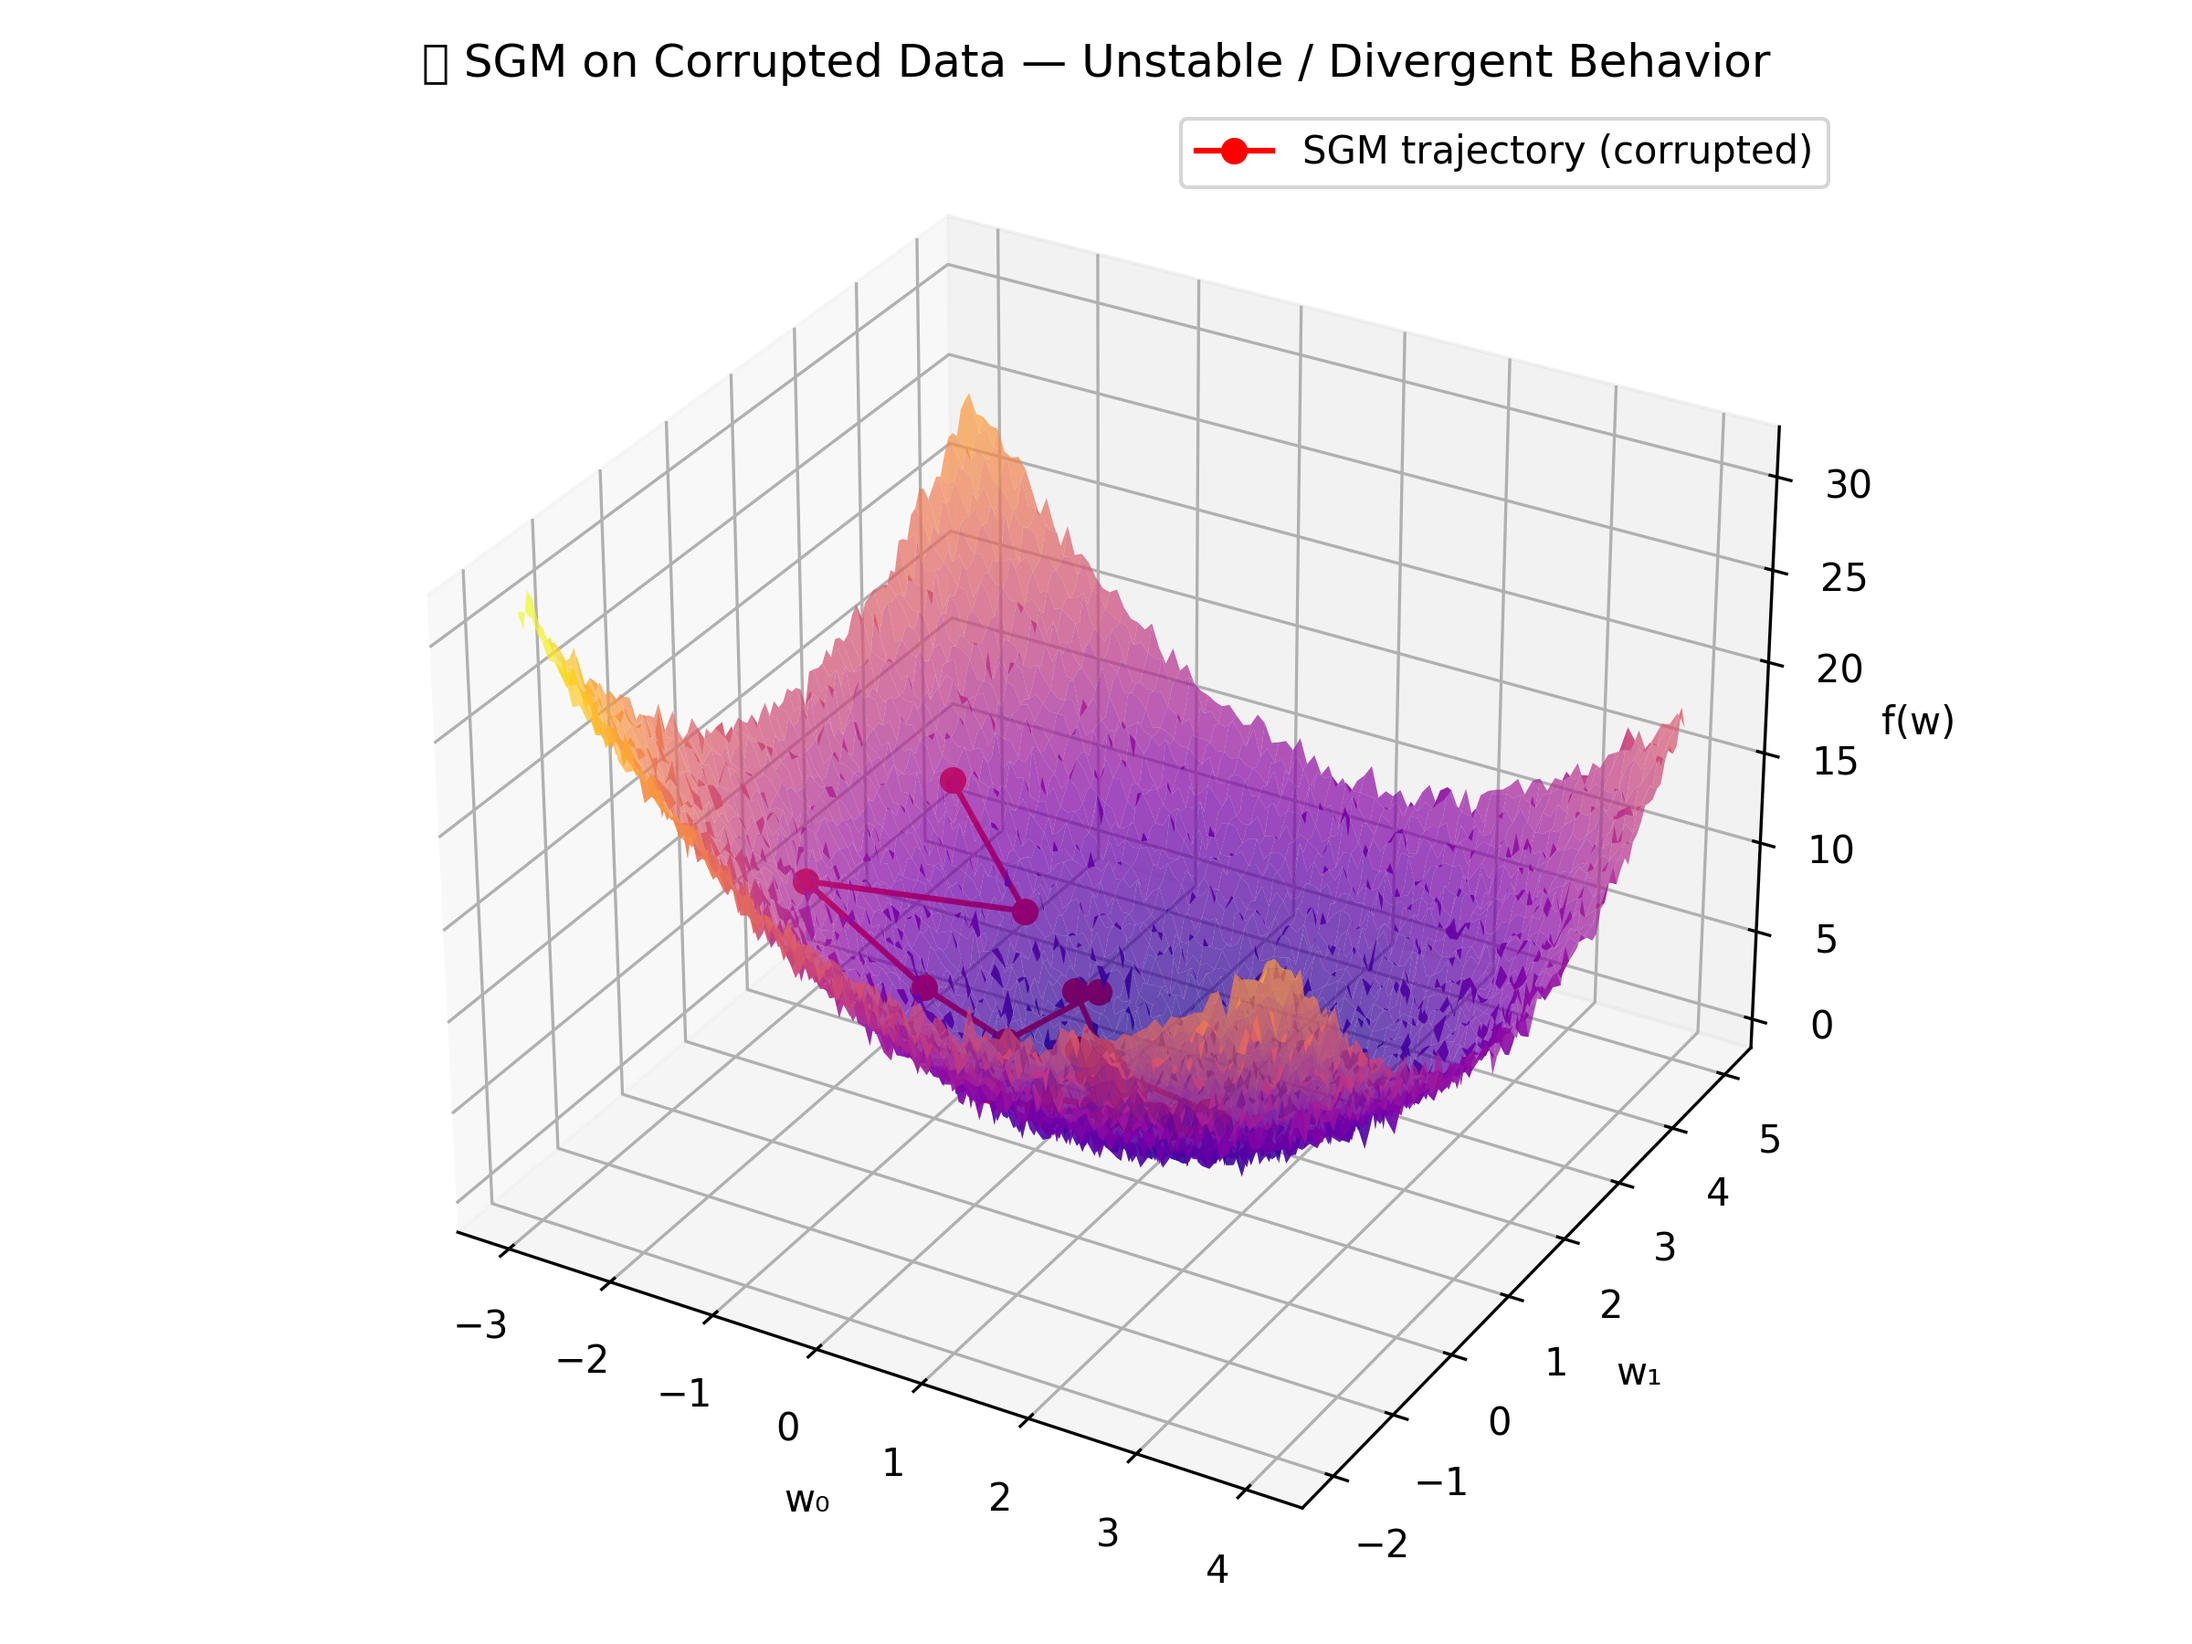
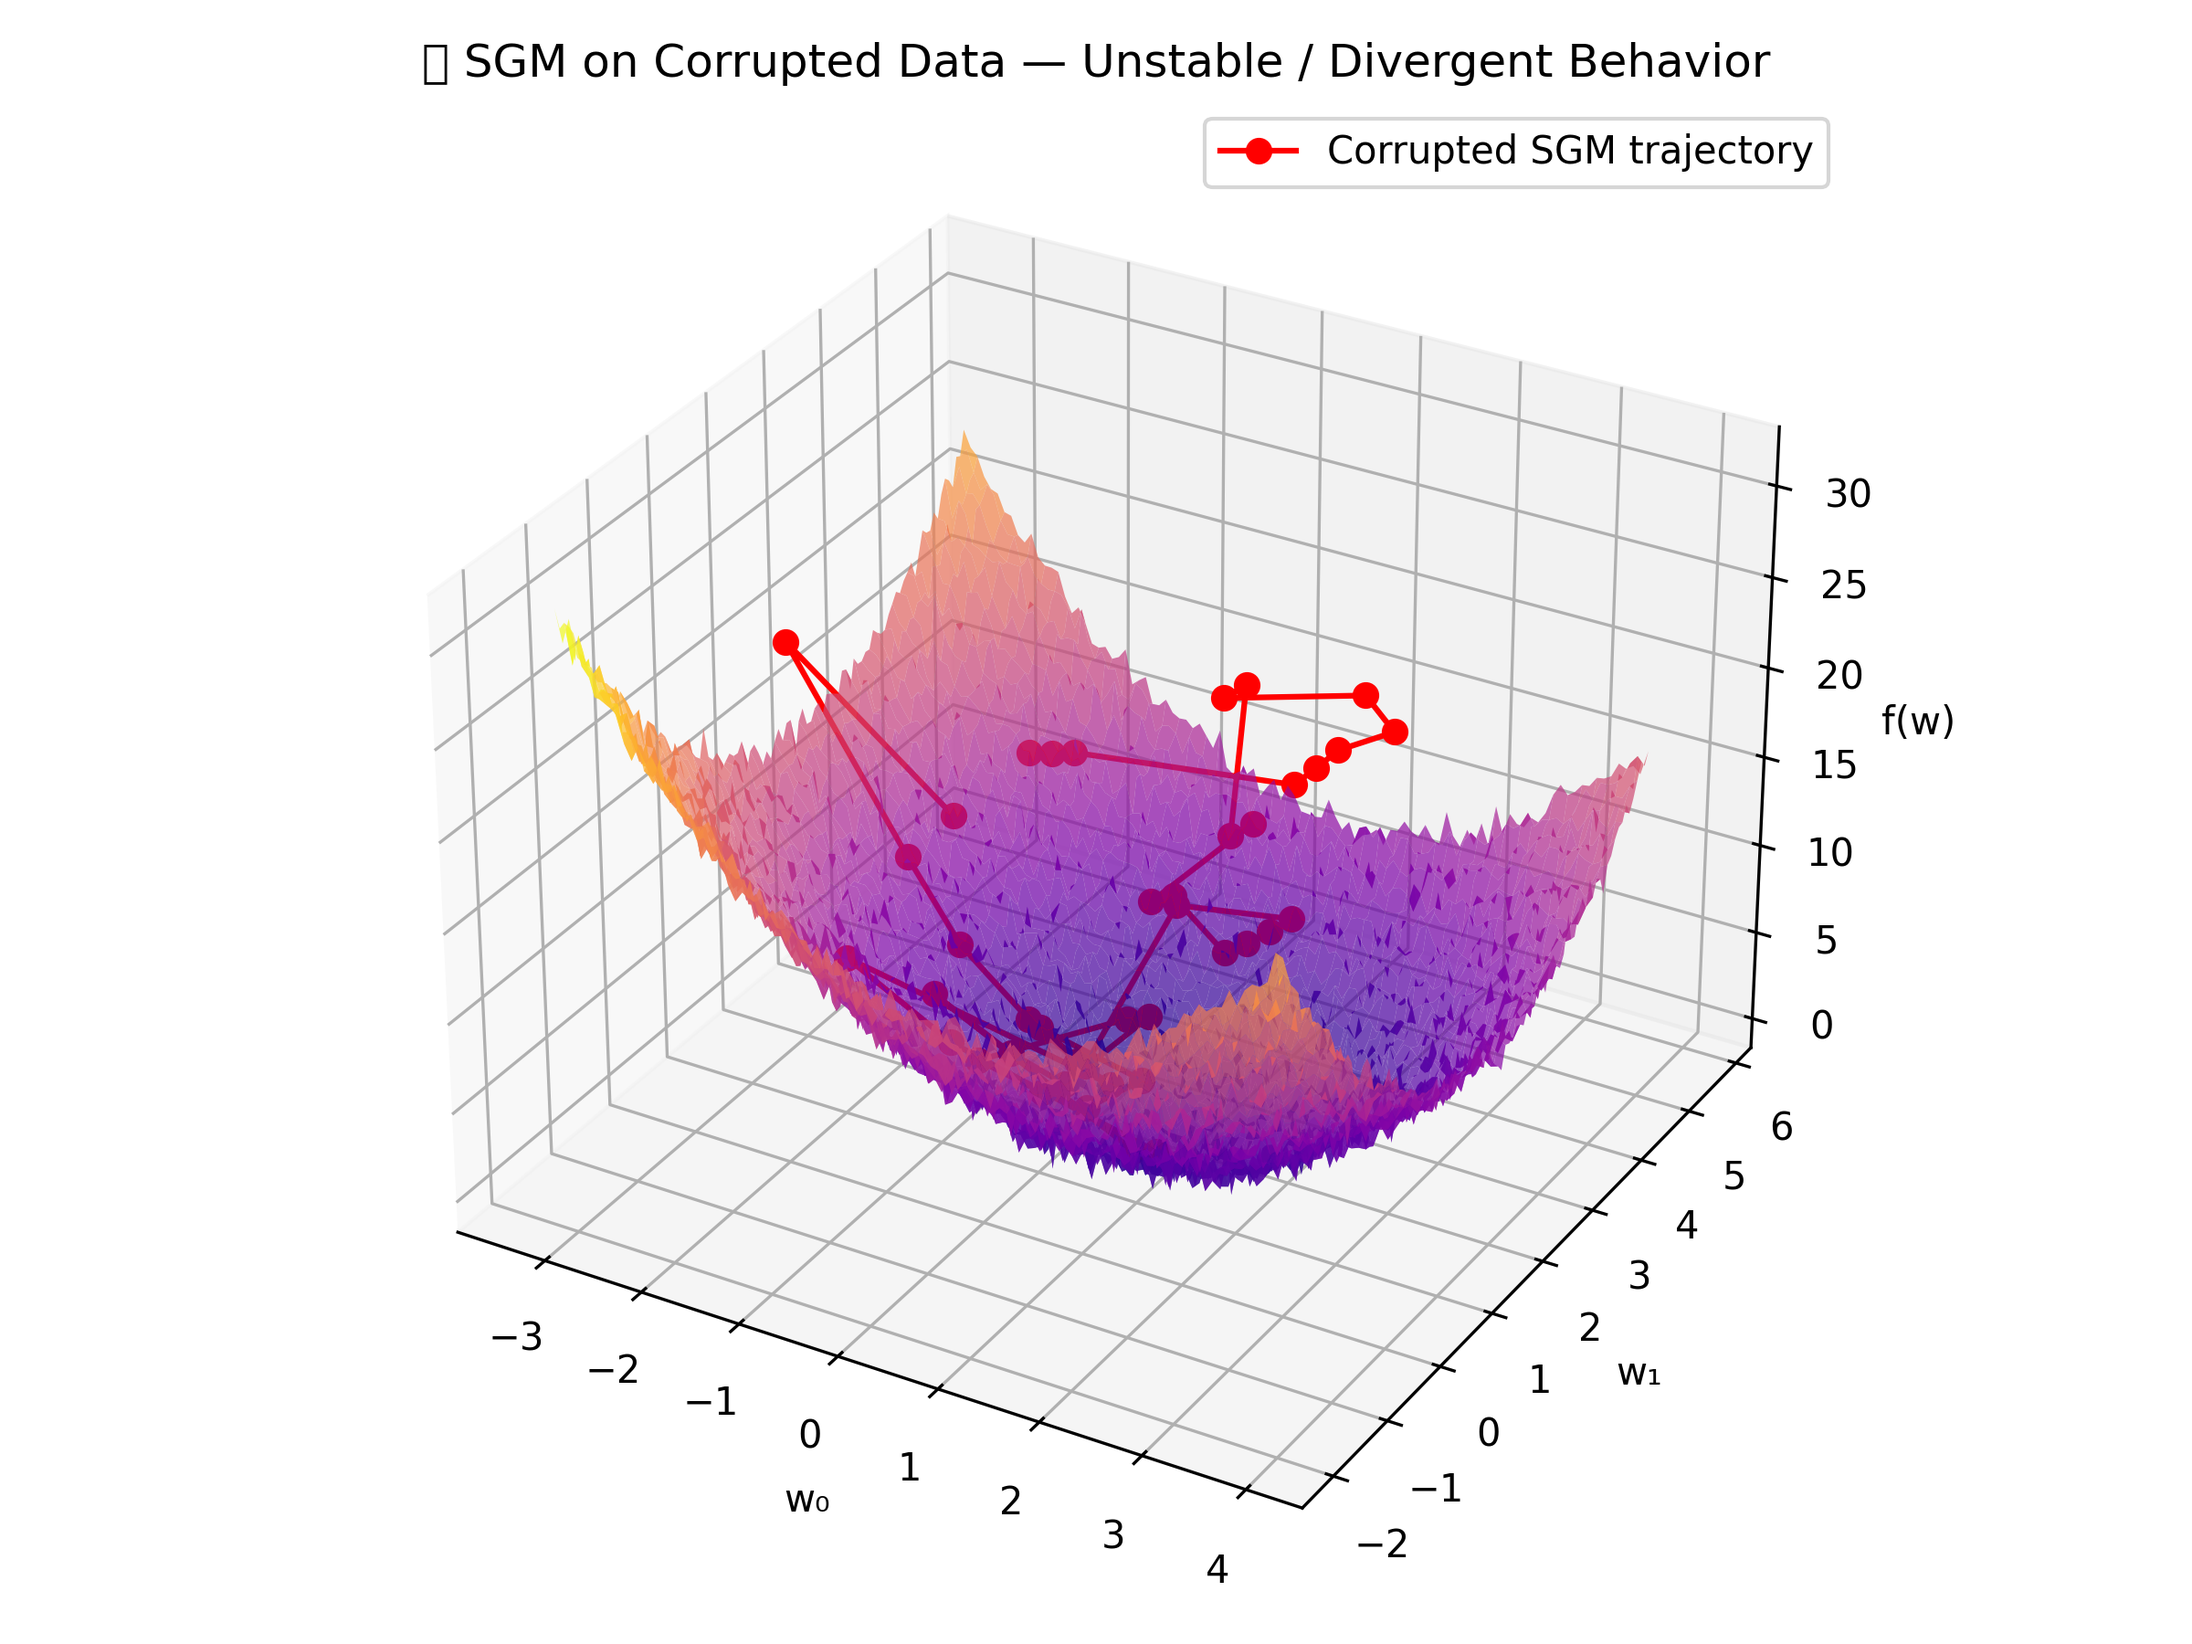
DEV: Proving SGM fails on corrupted gradients

diff --git a/clean_vs_corrupted/sgm_non_robust_demo.py b/clean_vs_corrupted/sgm_non_robust_demo.py
@@ -1,89 +1,103 @@
 import torch
 import matplotlib.pyplot as plt
 import numpy as np
+import pandas as pd
 from mpl_toolkits.mplot3d import Axes3D
 from pathlib import Path
 
-# -----------------------------
-# Setup simple quadratic + constraint
-# -----------------------------
+# ====================================================
+# 1. Setup simple quadratic + constraint
+# ====================================================
+
 def f(w0, w1):
+    """Objective function: convex paraboloid."""
     return (w0 - 1)**2 + (w1 - 2)**2
 
 def grad_f(w):
+    """Gradient of f."""
     return 2 * (w - torch.tensor([1.0, 2.0]))
 
 def g_value(w):
-    return w[0] + w[1] - 2.0  # feasible when <= 0
+    """Constraint: feasible region when g(w) <= 0."""
+    return w[0] + w[1] - 2.0
 
 def grad_g():
+    """Gradient of constraint g."""
     return torch.tensor([1.0, 1.0])
 
-# -----------------------------
-# SGM update rule
-# -----------------------------
+# ====================================================
+# 2. SGM update rule
+# ====================================================
+
 def sgm_step(w, eta=0.1, eps=0.0, corruption=False):
+    """Single SGM step with optional corruption."""
     g_val = g_value(w)
     if g_val <= eps:
         grad = grad_f(w)
     else:
         grad = grad_g()
 
-    # Apply corruption (simulate noisy gradients or outliers)
+    # Add gradient corruption (simulate noisy gradients or outliers)
     if corruption:
         noise = 2.0 * torch.randn_like(grad)
         if np.random.rand() < 0.3:
-            grad = grad + noise * 3.0  # random spikes
+            grad = grad + noise * 3.0  # large random spike
+    
     return w - eta * grad
 
-# -----------------------------
-# Run SGM trajectories
-# -----------------------------
-def run_sgm(clean=True, steps=40):
+# ====================================================
+# 3. Run SGM trajectories
+# ====================================================
+
+def run_sgm(clean=True, steps=40, eta=0.15):
+    """Run SGM trajectory and record progress."""
     w = torch.tensor([-2.0, 3.0])
     traj = [w.clone()]
+    losses = [f(w[0], w[1])]
+    gvals = [g_value(w)]
     for t in range(steps):
-        w = sgm_step(w, eta=0.15, corruption=(not clean))
+        w = sgm_step(w, eta=eta, corruption=(not clean))
         traj.append(w.clone())
-    return torch.stack(traj)
+        losses.append(f(w[0], w[1]))
+        gvals.append(g_value(w))
+    return torch.stack(traj), np.array(losses), np.array(gvals)
 
-traj_clean = run_sgm(clean=True)
-traj_noisy = run_sgm(clean=False)
+traj_clean, loss_clean, g_clean = run_sgm(clean=True)
+traj_noisy, loss_noisy, g_noisy = run_sgm(clean=False)
 
-# -----------------------------
-# Create 3D visualization grid
-# -----------------------------
+# ====================================================
+# 4. Create visualization folder
+# ====================================================
+Path("results").mkdir(exist_ok=True)
+
+# ====================================================
+# 5. 3D plots (same as before)
+# ====================================================
+
 w0 = np.linspace(-3, 4, 100)
 w1 = np.linspace(-2, 5, 100)
 W0, W1 = np.meshgrid(w0, w1)
 Z = f(W0, W1)
 
-Path("results").mkdir(exist_ok=True)
-
-# -----------------------------
-# PLOT 1: Clean SGM converges
-# -----------------------------
+# ----- Clean -----
 fig = plt.figure(figsize=(8,6))
 ax = fig.add_subplot(111, projection='3d')
 ax.plot_surface(W0, W1, Z, cmap='viridis', alpha=0.7)
-
 traj = traj_clean.numpy()
-ax.plot(traj[:,0], traj[:,1], f(traj[:,0], traj[:,1]), '-o', color='blue', label='SGM trajectory (clean)')
+ax.plot(traj[:,0], traj[:,1], f(traj[:,0], traj[:,1]), '-o', color='blue', label='Clean SGM trajectory')
 ax.set_xlabel('w₀'); ax.set_ylabel('w₁'); ax.set_zlabel('f(w)')
-ax.set_title(' SGM on Clean Data — Smooth Convergence to Minimum')
+ax.set_title('✅ SGM on Clean Data — Smooth Convergence to Minimum')
 ax.legend()
 plt.tight_layout()
 plt.savefig("results/sgm_clean_3d.png", dpi=300)
 plt.close()
 
-# -----------------------------
-# PLOT 2: Corrupted SGM fails
-# -----------------------------
+# ----- Corrupted -----
 fig = plt.figure(figsize=(8,6))
 ax = fig.add_subplot(111, projection='3d')
-ax.plot_surface(W0, W1, Z + 0.5*np.random.randn(*Z.shape), cmap='plasma', alpha=0.7)  # noisy landscape
+ax.plot_surface(W0, W1, Z + 0.5*np.random.randn(*Z.shape), cmap='plasma', alpha=0.7)
 traj = traj_noisy.numpy()
-ax.plot(traj[:,0], traj[:,1], f(traj[:,0], traj[:,1]), '-o', color='red', label='SGM trajectory (corrupted)')
+ax.plot(traj[:,0], traj[:,1], f(traj[:,0], traj[:,1]), '-o', color='red', label='Corrupted SGM trajectory')
 ax.set_xlabel('w₀'); ax.set_ylabel('w₁'); ax.set_zlabel('f(w)')
 ax.set_title('❌ SGM on Corrupted Data — Unstable / Divergent Behavior')
 ax.legend()
@@ -91,6 +105,66 @@ plt.tight_layout()
 plt.savefig("results/sgm_corrupted_3d.png", dpi=300)
 plt.close()
 
-print(" Done. Saved to results/:")
+# ====================================================
+# 6. 2D Trajectory Plots
+# ====================================================
+
+plt.figure(figsize=(7,5))
+plt.plot(traj_clean[:,0], traj_clean[:,1], '-o', label='Clean (Converges)', color='blue')
+plt.plot(traj_noisy[:,0], traj_noisy[:,1], '-o', label='Corrupted (Fails)', color='red', alpha=0.7)
+plt.scatter(1, 2, marker='*', color='green', s=150, label='True minimum (1,2)')
+plt.xlabel("w₀"); plt.ylabel("w₁")
+plt.title("2D Trajectories — Clean vs Corrupted SGM")
+plt.legend(); plt.grid(True)
+plt.tight_layout()
+plt.savefig("results/sgm_2d_trajectories.png", dpi=300)
+plt.close()
+
+# ====================================================
+# 7. Loss evolution plots
+# ====================================================
+
+plt.figure(figsize=(7,5))
+plt.plot(loss_clean, '-o', color='blue', label='Clean loss f(w)')
+plt.plot(loss_noisy, '-o', color='red', alpha=0.7, label='Corrupted loss f(w)')
+plt.xlabel("Iteration t"); plt.ylabel("f(wₜ)")
+plt.title("Loss evolution — Convergence vs Divergence")
+plt.legend(); plt.grid(True)
+plt.tight_layout()
+plt.savefig("results/sgm_loss_evolution.png", dpi=300)
+plt.close()
+
+# ====================================================
+# 8. Save CSV with trajectories
+# ====================================================
+
+data_clean = pd.DataFrame({
+    "step": np.arange(len(traj_clean)),
+    "w0": traj_clean[:,0].numpy(),
+    "w1": traj_clean[:,1].numpy(),
+    "f(w)": loss_clean,
+    "g(w)": g_clean,
+    "corrupted": False
+})
+data_noisy = pd.DataFrame({
+    "step": np.arange(len(traj_noisy)),
+    "w0": traj_noisy[:,0].numpy(),
+    "w1": traj_noisy[:,1].numpy(),
+    "f(w)": loss_noisy,
+    "g(w)": g_noisy,
+    "corrupted": True
+})
+
+df = pd.concat([data_clean, data_noisy], ignore_index=True)
+df.to_csv("results/sgm_trajectories.csv", index=False)
+
+# ====================================================
+# 9. Summary
+# ====================================================
+
+print("✅ Done. Results saved in 'results/' folder:")
 print(" - sgm_clean_3d.png")
 print(" - sgm_corrupted_3d.png")
+print(" - sgm_2d_trajectories.png")
+print(" - sgm_loss_evolution.png")
+print(" - sgm_trajectories.csv")
